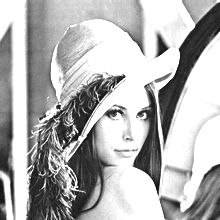
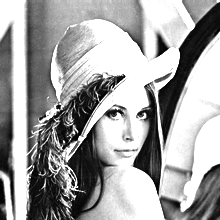
add comment

diff --git a/main.py b/main.py
@@ -6,6 +6,7 @@ from PIL import Image
 import math
 from sklearn import preprocessing
 
+#normalize given image
 def normalize(image):
     if normalization:
         (rows, cols, channels)=image.shape
@@ -26,6 +27,7 @@ def normalize(image):
     else:
         return image
 
+#clasic forumula with custom parameter list
 def get_image(image_path):
     """Get a numpy array of an image so that one can access values[x][y]."""
     image = Image.open(image_path, "r")
@@ -59,7 +61,7 @@ for itter in range(R_coef.__len__()):
     else:
         cv2.imwrite(OutputImageNamePath+"_"+str(itter)+ImageExtension,grayImage)
 
-
+#personal formula
 for row in range(rows):
         for col in range(cols):
             aux = (newImage[row][col][0] + newImage[row][col][1] + newImage[row][col][2])/(3*255)

diff --git a/app_config.py b/app_config.py
@@ -1,5 +1,5 @@
-InputImageNamePath="input\fruits"
-OutputImageNamePath="output\fruits"
+InputImageNamePath="input\lena"
+OutputImageNamePath="output\lena"
 ImageExtension=".png"
 
 R_coef=[1.0,
@@ -20,4 +20,4 @@ B_coef=[0.0,
     0.072,
     0.4 ]
 
-normalization=False
+normalization=True
